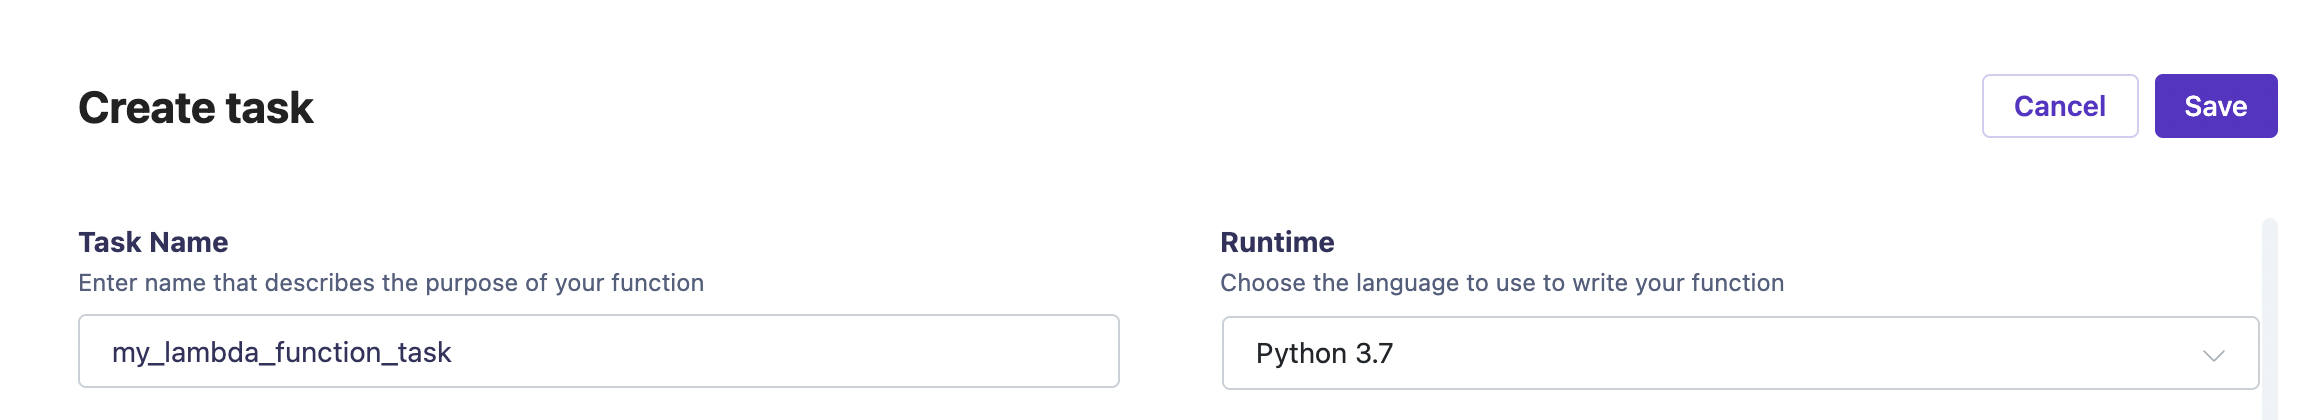
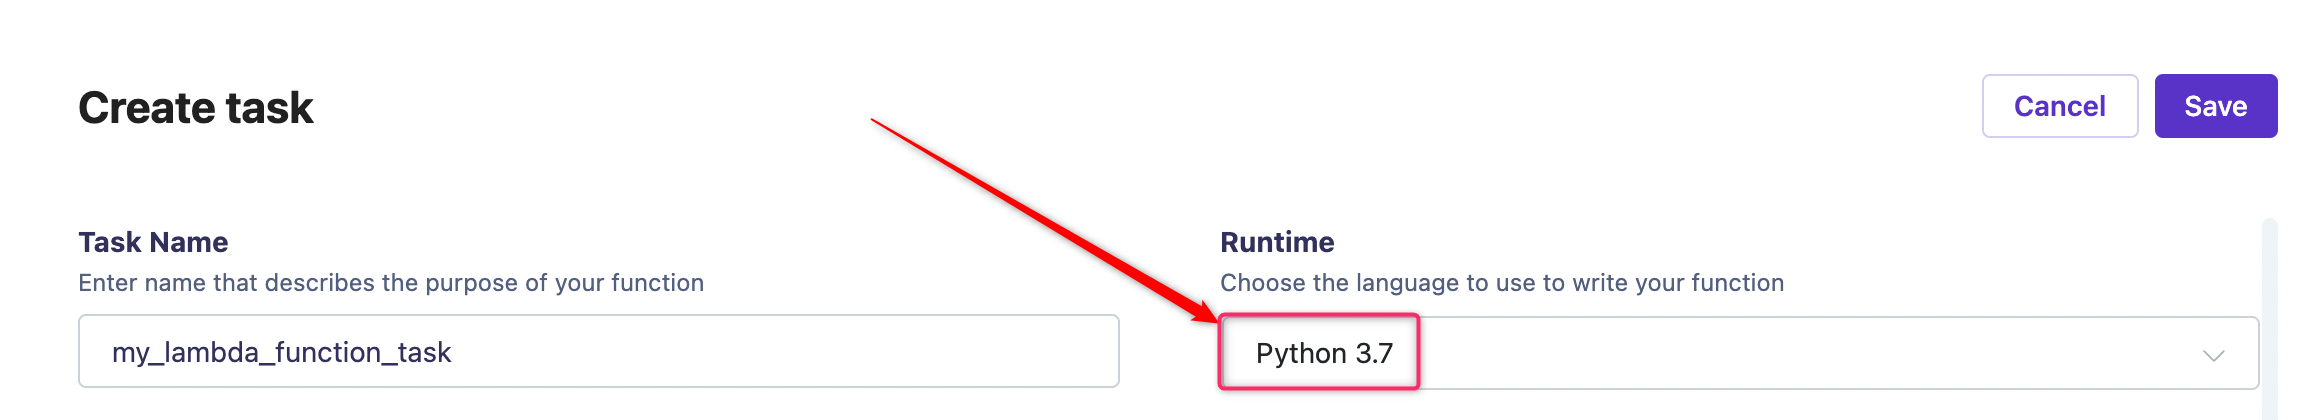
Updated "Running Custom Lambda Tasks" guide

Changed region(s): [[0.4626, 0.5571, 0.6169, 0.9595], [0.3701, 0.3095, 0.4318, 0.4643], [0.4318, 0.4643, 0.4626, 0.5571]]

diff --git a/_posts/2024-03-01-create-custom_task.md b/_posts/2024-03-01-create-custom_task.md
@@ -53,8 +53,6 @@ def lambda_handler(event, context):
 
 This enables you to access key task parameters like report IDs, tokens, and custom task variables.
 
----
-
 ### Step 2: Packaging and Preparing Lambda for Deployment
 
 If your Lambda function uses non-standard Python libraries, you'll need to include them in the `requirements.txt` file. Carrier uses the same packaging rules as  Lambda.
@@ -78,12 +76,26 @@ cp function.zip ../
 cd ..
 rm -rf lambda
 ```
- > For example, docker run command for Python 3.11 will looks like: 
+ > For example, here is a docker run command for Python 3.11: 
  ```bash
  docker run --rm -v "$PWD/":/var/task getcarrier/lambda:python3.11-build pip install -r requirements.txt -t /var/task/lambda
  ```
 {: .prompt-tip }
----
+
+ **Here you can find a list with diferent Python builder images**:
+
+ *Choose the version that suits the requirements of your task and satisfies the architecture of the machine on which the build is executed*
+ - getcarrier/lambda:python3.11-build
+ - getcarrier/lambda:python3.11-build-x86_64
+ - getcarrier/lambda:python3.11-build-arm64
+ - getcarrier/lambda:python3.10-build
+ - getcarrier/lambda:python3.10-build-x86_64
+ - getcarrier/lambda:python3.10-build-arm64
+ - lambci/lambda:build-python3.8
+ - lambci/lambda:build-python3.7
+ - lambci/lambda:build-python3.6
+ - lambci/lambda:build-python2.7
+
 
 ### Step 3: Creating Lambda Task in Carrier
 
@@ -98,7 +110,12 @@ Once the Lambda function is packaged, you can create the task in Carrier:
 
 3. **Set Task Name and Runtime**:
    Define your task name and select the appropriate runtime (e.g., Python 3.7).
+   > You have to select the same runtime version as you used in your build. Version mismatch will cause errors!
+   {: .prompt-info }
    ![Tasks creation_part1](/assets/posts_img/tasks_creation_part1.png)
+   **List of avaliable Runtimes**:
+   ![Avaliable Runtimes](/assets/posts_img/runtime_versions.png)
+
 
 4. **Upload Lambda Function**:
    Upload the zip file containing your Lambda function and specify the Lambda handler.
